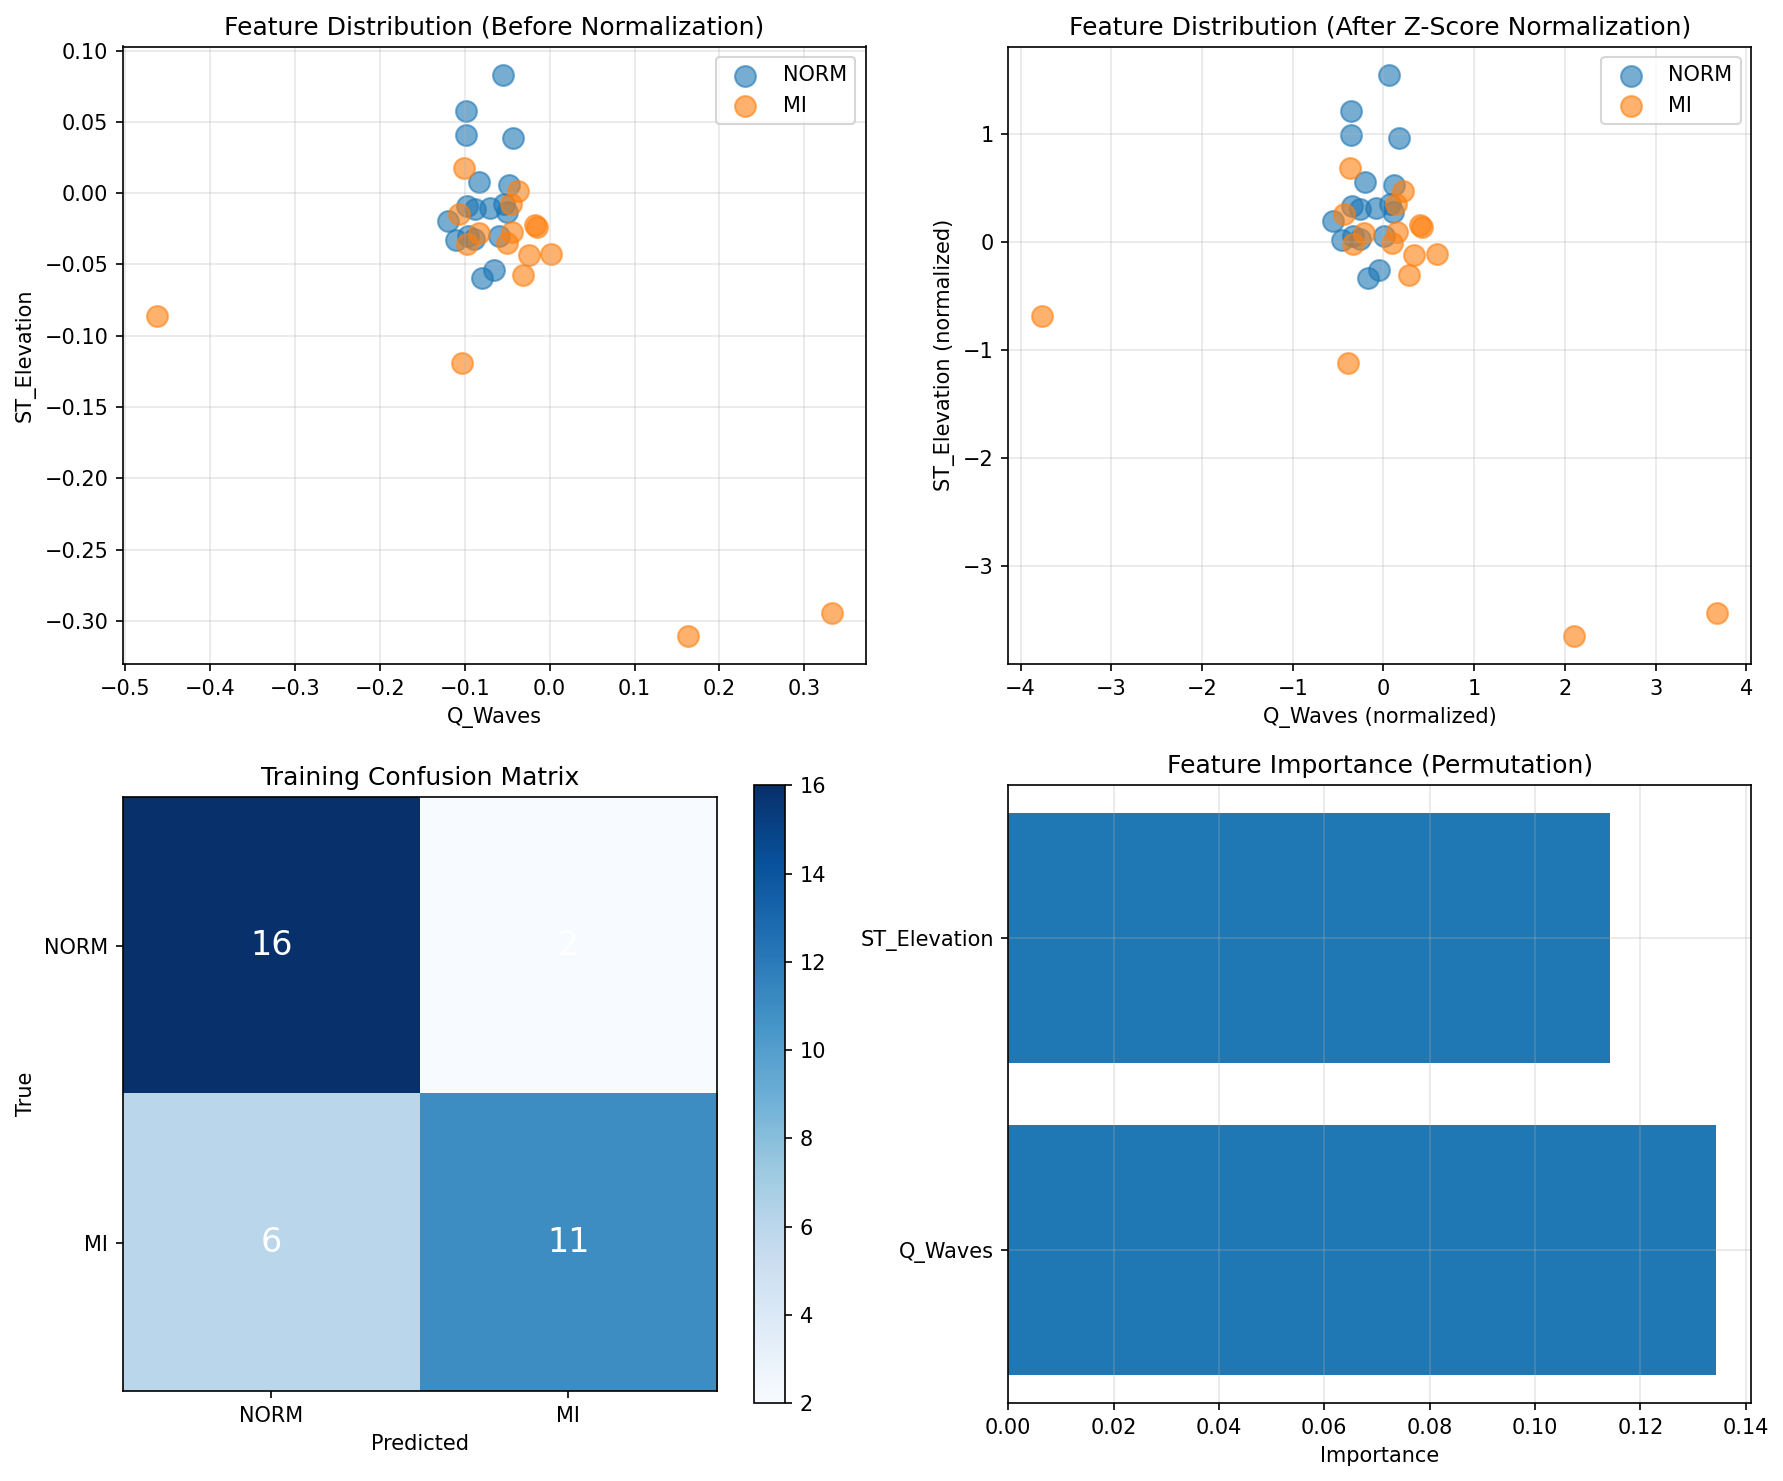
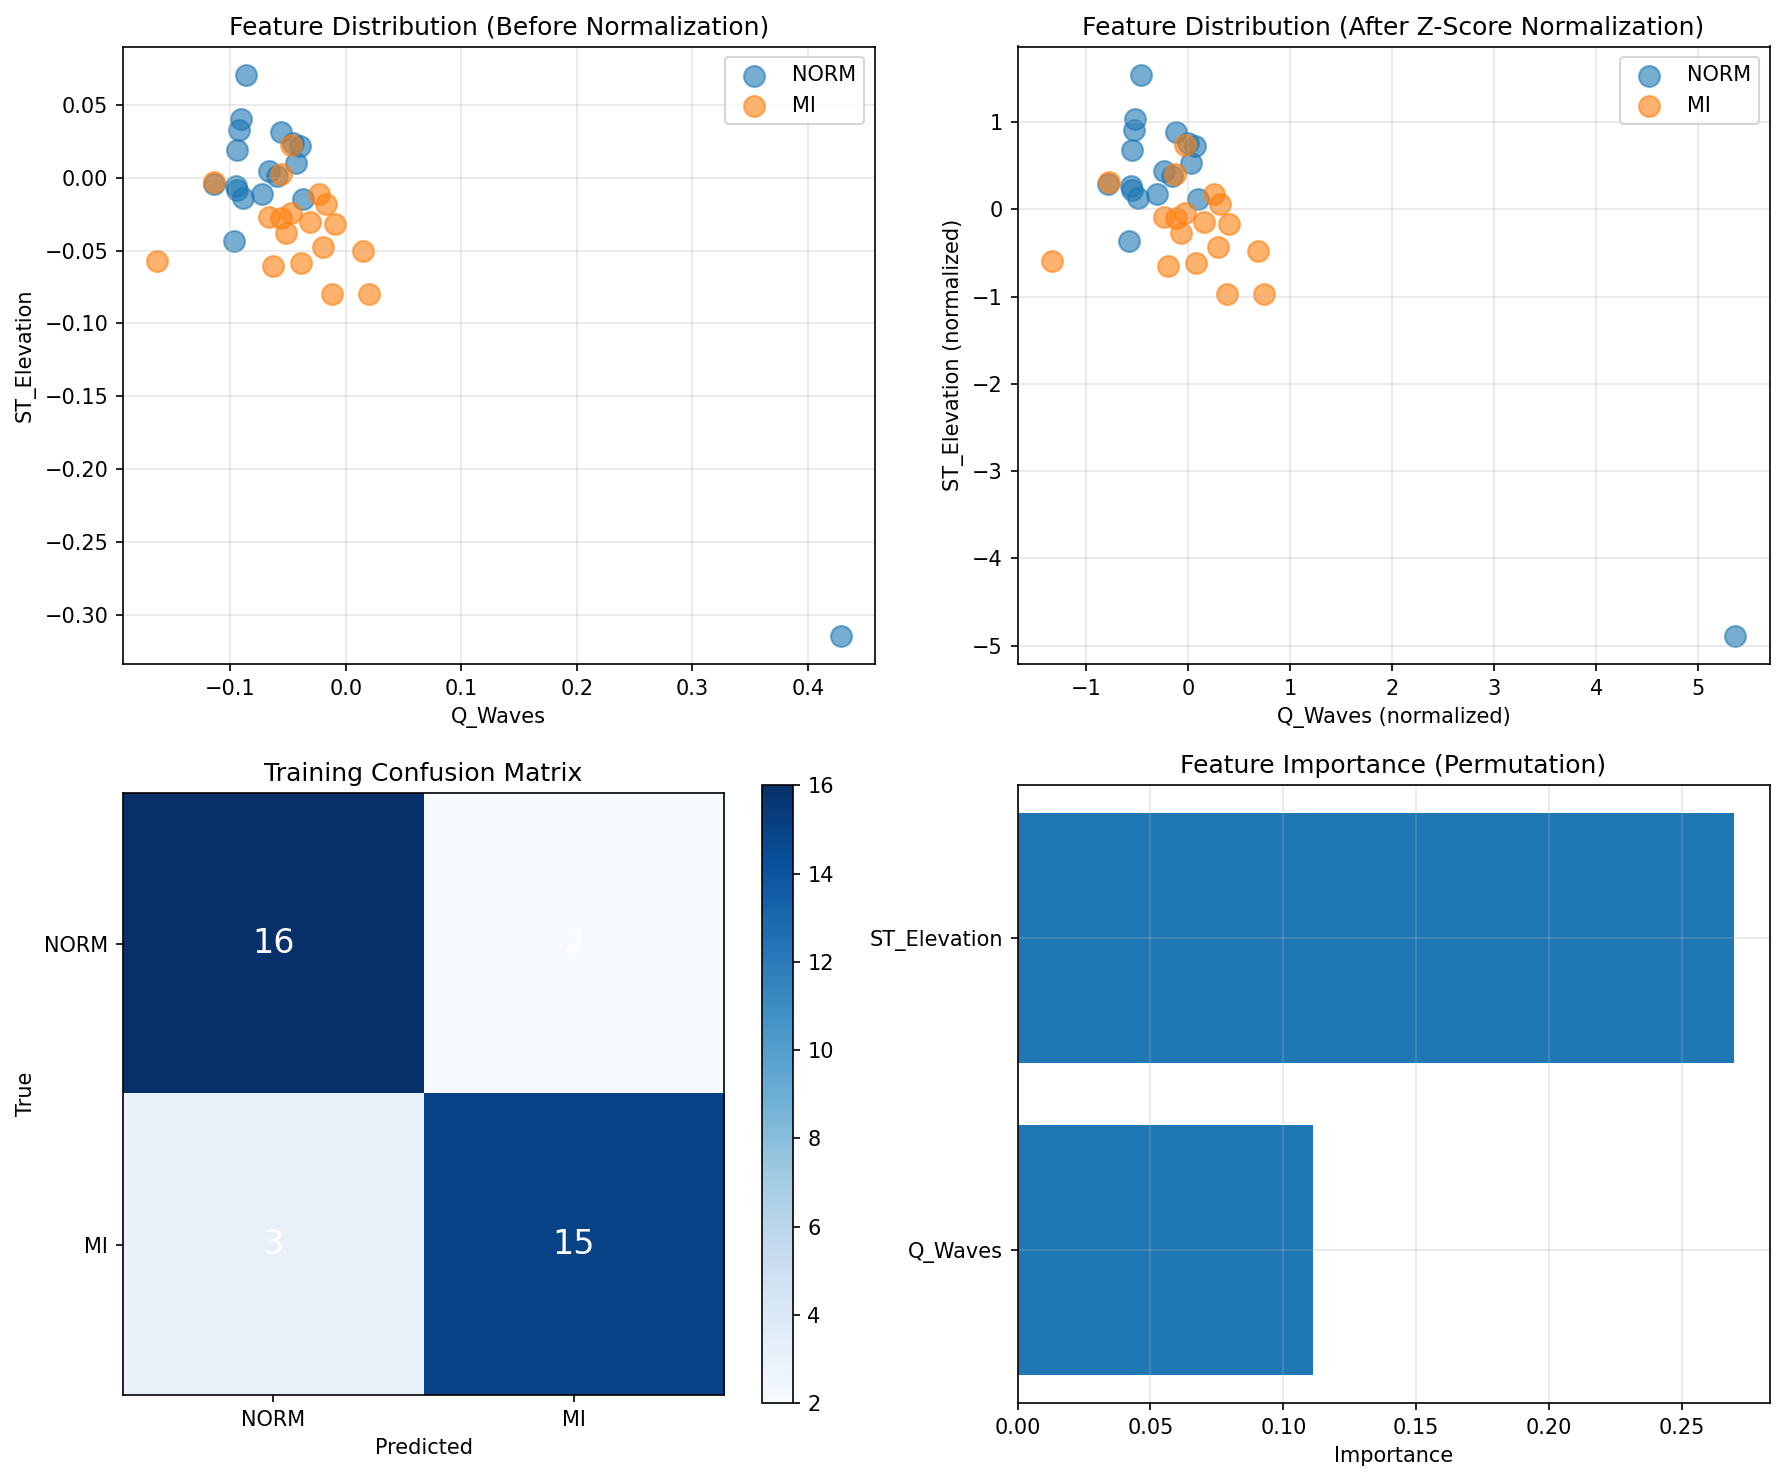
ganti model sama random 52

diff --git a/train.py b/train.py
@@ -261,8 +261,8 @@ print("\n[4] Extracting training data features...")
 # Ambil balanced sample: 18 NORM + 18 MI = 36 total (sesuai jurnal)
 n_samples_per_class = 18
 
-norm_sample = norm_df.sample(n=min(n_samples_per_class, len(norm_df)), random_state=42)
-mi_sample = mi_df.sample(n=min(n_samples_per_class, len(mi_df)), random_state=42)
+norm_sample = norm_df.sample(n=min(n_samples_per_class, len(norm_df)), random_state=52)
+mi_sample = mi_df.sample(n=min(n_samples_per_class, len(mi_df)), random_state=52)
 
 print(f"  NORM samples: {len(norm_sample)}")
 print(f"  MI samples: {len(mi_sample)}")
